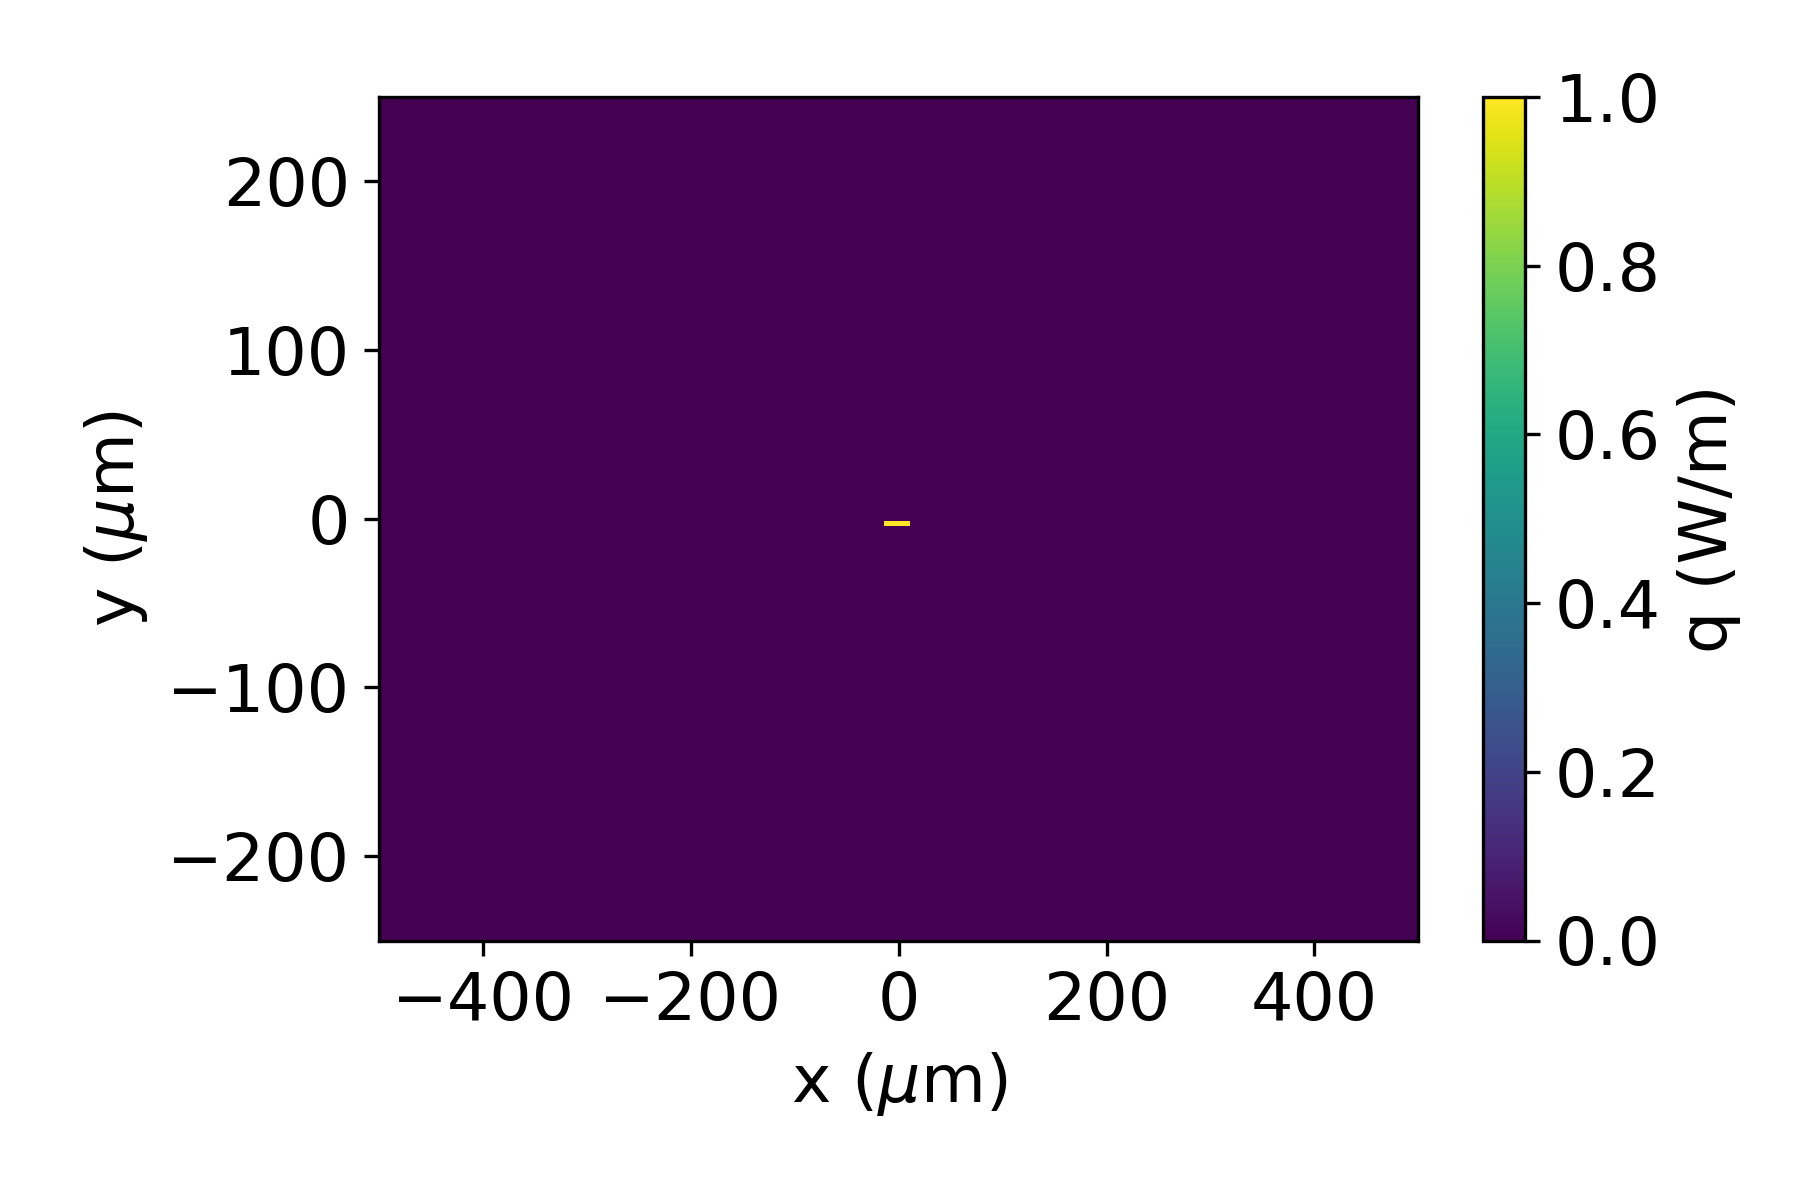
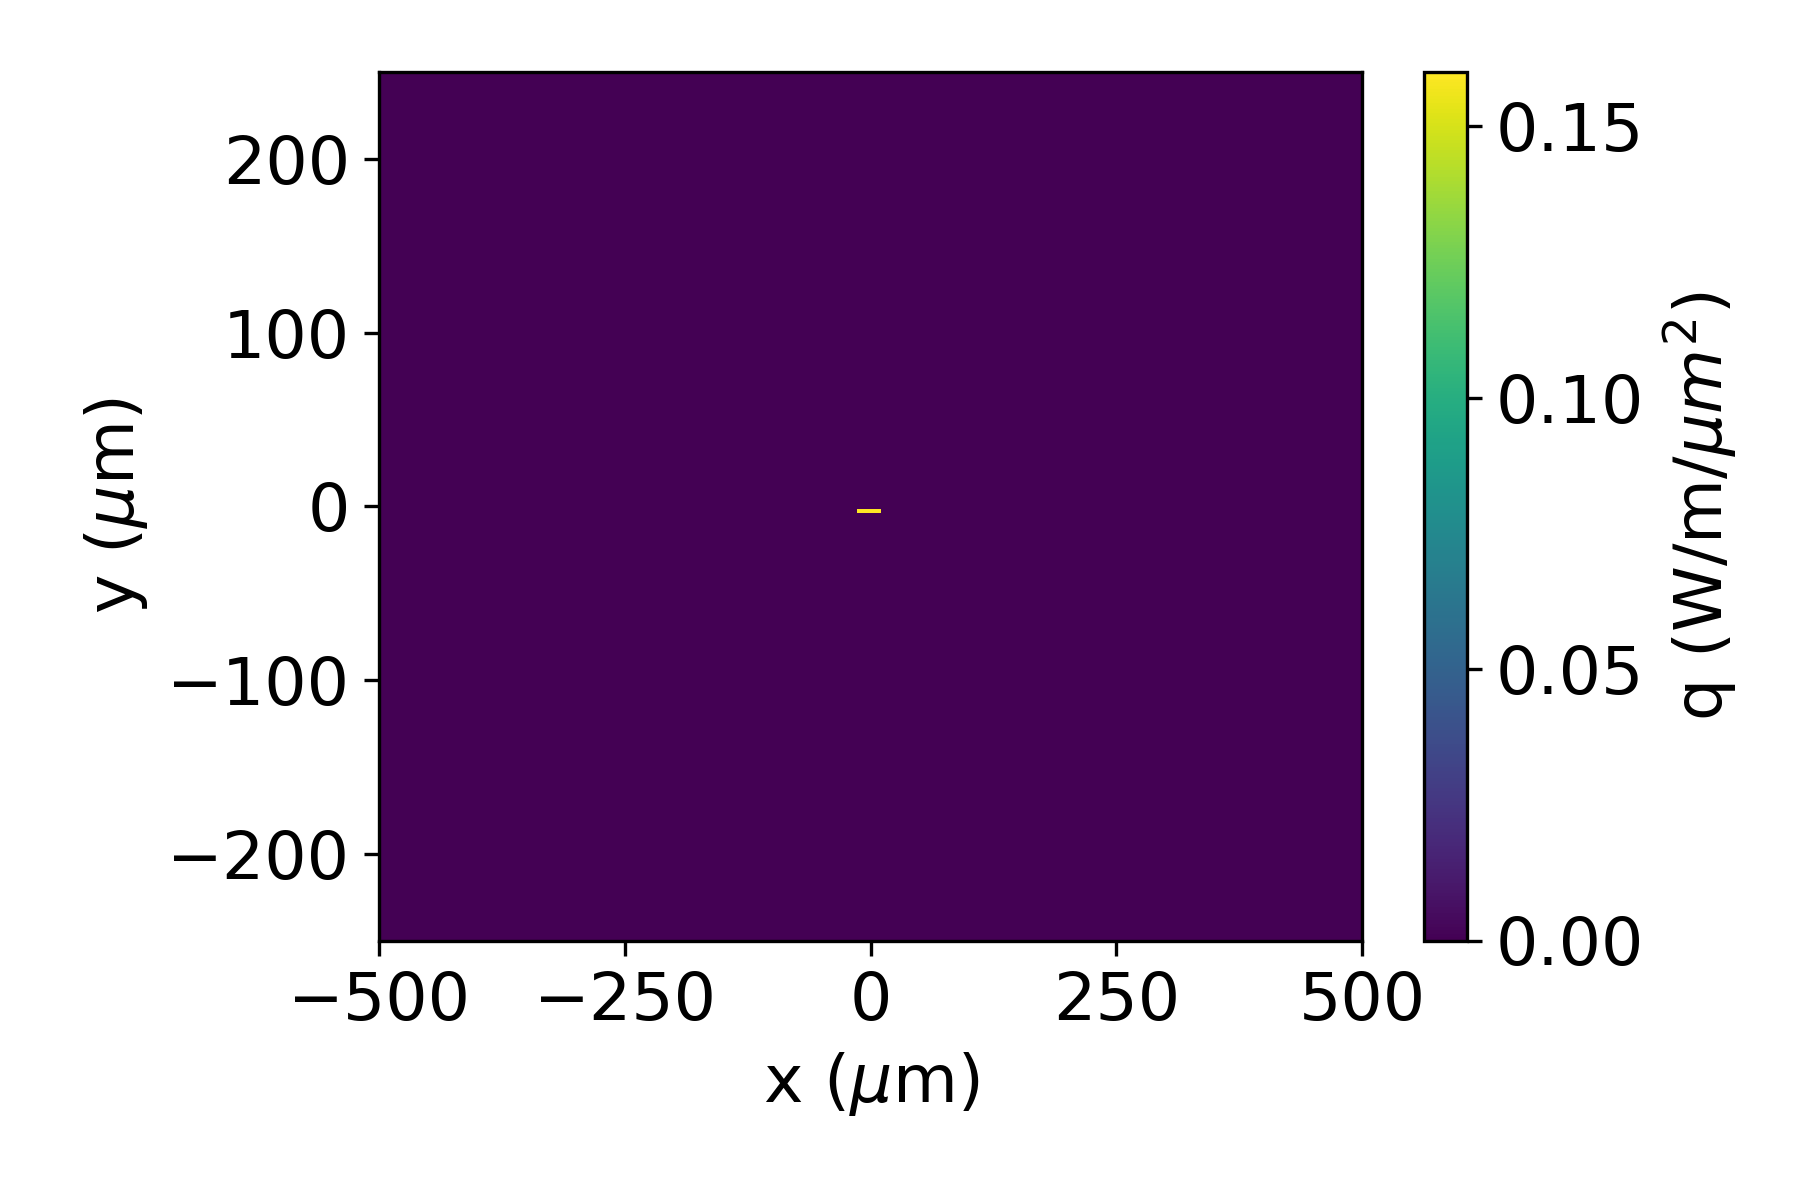
e^-iwt rather than e^iwt

diff --git a/src/pdeSim.py b/src/pdeSim.py
@@ -72,7 +72,7 @@ class PoissonFlow2D:
                     data.append(-1/2*(self.kappa[i-1,j]+self.kappa[i-1,j-1])*self.dy/self.dx-\
                     1/2*(self.kappa[i,j]+self.kappa[i,j-1])*self.dy/self.dx-\
                     1/2*(self.kappa[i-1,j]+self.kappa[i,j])*self.dx/self.dy-\
-                    1/2*(self.kappa[i,j-1]+self.kappa[i-1,j-1])*self.dx/self.dy-\
+                    1/2*(self.kappa[i,j-1]+self.kappa[i-1,j-1])*self.dx/self.dy+\
                     self.c[i,j]*self.rho[i,j]*self.freq*np.pi*2*self.dx*self.dy*1j)
                         
                     row.append(Adiag)
